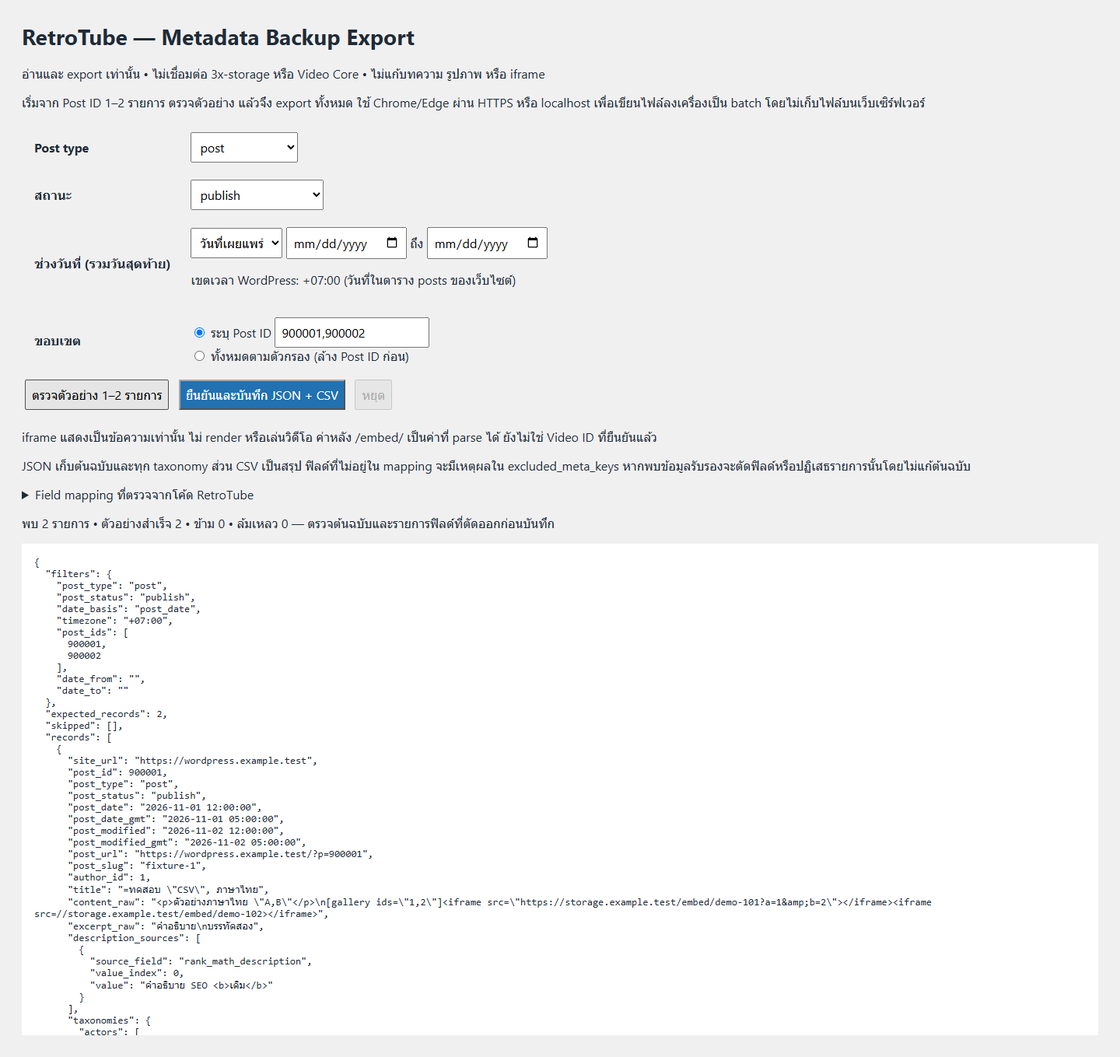
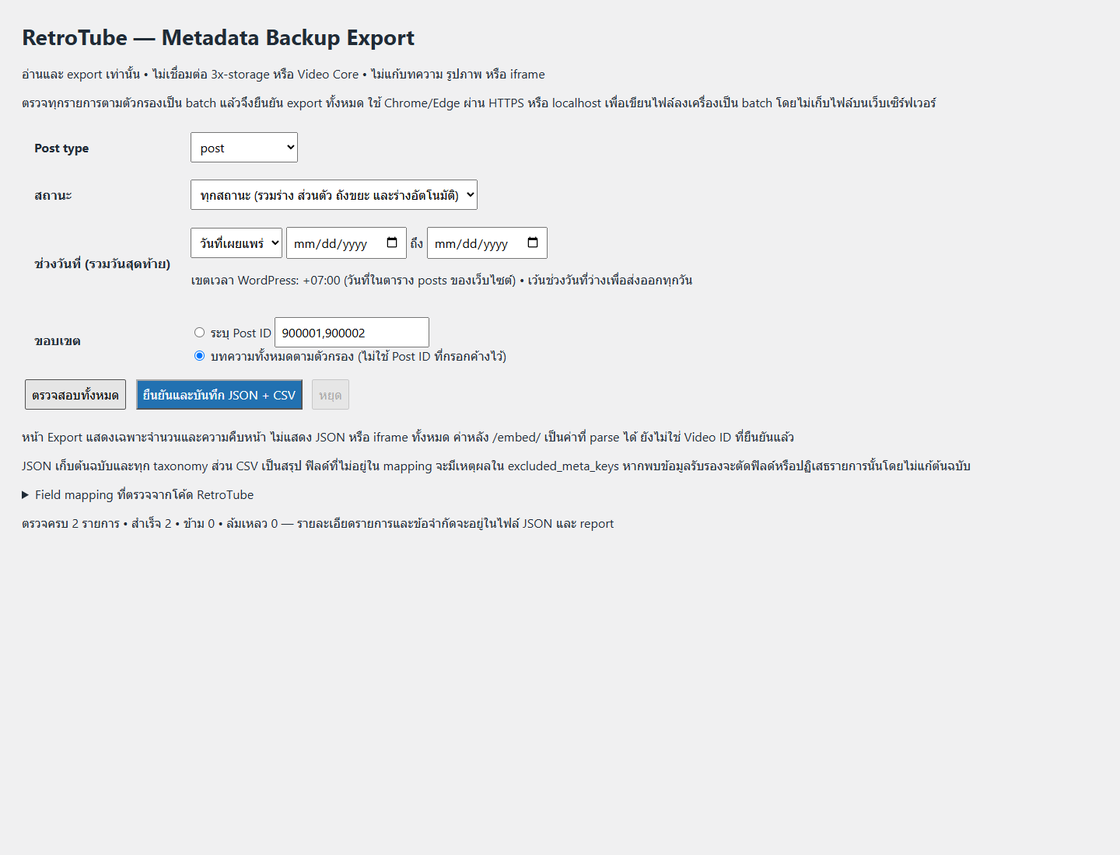
fix: remove full JSON review rendering from WordPress exporter

diff --git a/artifacts/wp-metadata-export/admin-preview.html b/artifacts/wp-metadata-export/admin-preview.html
@@ -1,14 +1,14 @@
 <!doctype html><html lang="th"><meta charset="utf-8"><title>RetroTube Metadata Export — local fixture</title><style>body{font:16px system-ui;margin:28px;color:#202b36;background:#f0f0f1}.form-table th{text-align:left;padding:14px}.form-table td{padding:10px}input,select,button{font:inherit;padding:7px}button{margin:8px 4px}pre{font-size:13px}h1{font-size:28px}.button-primary{background:#2271b1;color:white}</style>        <div class="wrap"><h1>RetroTube — Metadata Backup Export</h1>
         <p>อ่านและ export เท่านั้น • ไม่เชื่อมต่อ 3x-storage หรือ Video Core • ไม่แก้บทความ รูปภาพ หรือ iframe</p>
-        <p>เริ่มจาก Post ID 1–2 รายการ ตรวจตัวอย่าง แล้วจึง export ทั้งหมด ใช้ Chrome/Edge ผ่าน HTTPS หรือ localhost เพื่อเขียนไฟล์ลงเครื่องเป็น batch โดยไม่เก็บไฟล์บนเว็บเซิร์ฟเวอร์</p>
+        <p>ตรวจทุกรายการตามตัวกรองเป็น batch แล้วจึงยืนยัน export ทั้งหมด ใช้ Chrome/Edge ผ่าน HTTPS หรือ localhost เพื่อเขียนไฟล์ลงเครื่องเป็น batch โดยไม่เก็บไฟล์บนเว็บเซิร์ฟเวอร์</p>
         <form id="wpmb-form"><table class="form-table"><tbody>
         <tr><th>Post type</th><td><select name="post_type"><option  selected='selected' value="post">post</option><option  value="page">page</option><option  value="wp_block">wp_block</option><option  value="wp_navigation">wp_navigation</option><option  value="blog">blog</option><option  value="photos">photos</option></select></td></tr>
-        <tr><th>สถานะ</th><td><select name="post_status"><option  selected='selected' value="publish">publish</option><option  value="future">future</option><option  value="draft">draft</option><option  value="pending">pending</option><option  value="private">private</option><option  value="trash">trash</option><option  value="auto-draft">auto-draft</option><option  value="inherit">inherit</option><option  value="request-pending">request-pending</option><option  value="request-confirmed">request-confirmed</option><option  value="request-failed">request-failed</option><option  value="request-completed">request-completed</option></select></td></tr>
-        <tr><th>ช่วงวันที่ (รวมวันสุดท้าย)</th><td><select name="date_basis"><option value="post_date">วันที่เผยแพร่</option><option value="post_modified">วันที่แก้ไข</option></select> <input name="date_from" type="date"> ถึง <input name="date_to" type="date"><p>เขตเวลา WordPress: +07:00 (วันที่ในตาราง posts ของเว็บไซต์)</p></td></tr>
-        <tr><th>ขอบเขต</th><td><label><input type="radio" name="scope" value="ids" checked> ระบุ Post ID</label> <input name="post_ids" placeholder="101, 102" aria-label="Post IDs"><br><label><input type="radio" name="scope" value="all"> ทั้งหมดตามตัวกรอง (ล้าง Post ID ก่อน)</label></td></tr>
-        </tbody></table><button type="button" id="wpmb-preview" class="button">ตรวจตัวอย่าง 1–2 รายการ</button> <button type="button" id="wpmb-download" class="button button-primary" disabled>ยืนยันและบันทึก JSON + CSV</button> <button type="button" id="wpmb-cancel" class="button" disabled>หยุด</button></form>
-        <p>iframe แสดงเป็นข้อความเท่านั้น ไม่ render หรือเล่นวิดีโอ ค่าหลัง /embed/ เป็นค่าที่ parse ได้ ยังไม่ใช่ Video ID ที่ยืนยันแล้ว</p>
+        <tr><th>สถานะ</th><td><select name="post_status"><option value="all">ทุกสถานะ (รวมร่าง ส่วนตัว ถังขยะ และร่างอัตโนมัติ)</option><option value="publish">publish</option><option value="future">future</option><option value="draft">draft</option><option value="pending">pending</option><option value="private">private</option><option value="trash">trash</option><option value="auto-draft">auto-draft</option><option value="inherit">inherit</option><option value="request-pending">request-pending</option><option value="request-confirmed">request-confirmed</option><option value="request-failed">request-failed</option><option value="request-completed">request-completed</option></select></td></tr>
+        <tr><th>ช่วงวันที่ (รวมวันสุดท้าย)</th><td><select name="date_basis"><option value="post_date">วันที่เผยแพร่</option><option value="post_modified">วันที่แก้ไข</option></select> <input name="date_from" type="date"> ถึง <input name="date_to" type="date"><p>เขตเวลา WordPress: +07:00 (วันที่ในตาราง posts ของเว็บไซต์) • เว้นช่วงวันที่ว่างเพื่อส่งออกทุกวัน</p></td></tr>
+        <tr><th>ขอบเขต</th><td><label><input type="radio" name="scope" value="ids"> ระบุ Post ID</label> <input name="post_ids" placeholder="101, 102" aria-label="Post IDs"><br><label><input type="radio" name="scope" value="all" checked> บทความทั้งหมดตามตัวกรอง (ไม่ใช้ Post ID ที่กรอกค้างไว้)</label></td></tr>
+        </tbody></table><button type="button" id="wpmb-preview" class="button">ตรวจสอบทั้งหมด</button> <button type="button" id="wpmb-download" class="button button-primary" disabled>ยืนยันและบันทึก JSON + CSV</button> <button type="button" id="wpmb-cancel" class="button" disabled>หยุด</button></form>
+        <p>หน้า Export แสดงเฉพาะจำนวนและความคืบหน้า ไม่แสดง JSON หรือ iframe ทั้งหมด ค่าหลัง /embed/ เป็นค่าที่ parse ได้ ยังไม่ใช่ Video ID ที่ยืนยันแล้ว</p>
         <p>JSON เก็บต้นฉบับและทุก taxonomy ส่วน CSV เป็นสรุป ฟิลด์ที่ไม่อยู่ใน mapping จะมีเหตุผลใน excluded_meta_keys หากพบข้อมูลรับรองจะตัดฟิลด์หรือปฏิเสธรายการนั้นโดยไม่แก้ต้นฉบับ</p>
         <details><summary>Field mapping ที่ตรวจจากโค้ด RetroTube</summary><pre>{&quot;embed&quot;:[&quot;embed&quot;,&quot;shortcode&quot;],&quot;video&quot;:[&quot;video_url&quot;,&quot;video_url_4k&quot;,&quot;video_url_1080&quot;,&quot;video_url_720&quot;,&quot;video_url_480&quot;,&quot;video_url_360&quot;,&quot;video_url_240&quot;,&quot;trailer_url&quot;],&quot;thumbnail&quot;:[&quot;thumb&quot;,&quot;thumbs&quot;],&quot;description&quot;:[&quot;rank_math_description&quot;],&quot;related&quot;:[&quot;duration&quot;,&quot;featured_video&quot;,&quot;hd_video&quot;,&quot;post_views_count&quot;,&quot;likes_count&quot;,&quot;dislikes_count&quot;]}</pre></details>
-        <p id="wpmb-status" role="status" aria-live="polite">ยังไม่ได้ตรวจตัวอย่าง</p><pre id="wpmb-preview-data" style="white-space:pre-wrap;overflow-wrap:anywhere;background:#fff;padding:16px;max-height:600px;overflow:auto"></pre></div>
+        <p id="wpmb-status" role="status" aria-live="polite">ยังไม่ได้ตรวจสอบ</p></div>
         </html>

diff --git a/tools/wp-metadata-export/assets/admin.js b/tools/wp-metadata-export/assets/admin.js
@@ -7,7 +7,6 @@
   const download = document.getElementById('wpmb-download');
   const cancel = document.getElementById('wpmb-cancel');
   const status = document.getElementById('wpmb-status');
-  const output = document.getElementById('wpmb-preview-data');
   let reviewed = null, stopped = false, running = false;
   const fields = () => Object.fromEntries(new FormData(form));
   const fingerprint = () => JSON.stringify(fields());
@@ -39,12 +38,9 @@
     const current = fingerprint(); frozen = fields(); stopped = false; reviewed = null; busy(true);
     try {
       const data = await startRequest('preview');
-      output.textContent = JSON.stringify({ filters: data.header.filters, expected_records: data.expected_records, skipped: data.skipped }, null, 2) + '\n';
       let batch = data.preview, count = 0, failed = 0;
       while (true) {
         if (stopped) throw new Error('ผู้ใช้หยุดการตรวจ — ยังตรวจไม่ครบ');
-        // Append one text node per batch; never render source HTML or rebuild prior batches.
-        output.append(document.createTextNode(JSON.stringify({ records: batch.records, failed: batch.failed }, null, 2) + '\n'));
         count += batch.records.length; failed += batch.failed.length;
         status.textContent = `ตรวจแล้ว ${count + failed}/${data.expected_records} • สำเร็จ ${count} • ล้มเหลว ${failed}`;
         if (batch.done) break;
@@ -52,7 +48,7 @@
       }
       if (count + failed !== data.expected_records) throw new Error('จำนวนรายการเปลี่ยนระหว่างตรวจ กรุณาตรวจใหม่');
       reviewed = current;
-      status.textContent = `ตรวจครบ ${data.expected_records} รายการ • สำเร็จ ${count} • ข้าม ${data.skipped.length} • ล้มเหลว ${failed} — ตรวจต้นฉบับและรายการฟิลด์ที่ตัดออกก่อนบันทึก`;
+      status.textContent = `ตรวจครบ ${data.expected_records} รายการ • สำเร็จ ${count} • ข้าม ${data.skipped.length} • ล้มเหลว ${failed} — รายละเอียดรายการและข้อจำกัดจะอยู่ในไฟล์ JSON และ report`;
     } catch (e) { reviewed = null; status.textContent = `ตรวจไม่สำเร็จ: ${e.message}`; }
     finally { busy(false); }
   });

diff --git a/tools/wp-metadata-export/includes/admin.php b/tools/wp-metadata-export/includes/admin.php
@@ -120,10 +120,10 @@ final class WPMB_Admin {
         <tr><th>ช่วงวันที่ (รวมวันสุดท้าย)</th><td><select name="date_basis"><option value="post_date">วันที่เผยแพร่</option><option value="post_modified">วันที่แก้ไข</option></select> <input name="date_from" type="date"> ถึง <input name="date_to" type="date"><p>เขตเวลา WordPress: <?php echo esc_html(wp_timezone_string()); ?> (วันที่ในตาราง posts ของเว็บไซต์) • เว้นช่วงวันที่ว่างเพื่อส่งออกทุกวัน</p></td></tr>
         <tr><th>ขอบเขต</th><td><label><input type="radio" name="scope" value="ids"> ระบุ Post ID</label> <input name="post_ids" placeholder="101, 102" aria-label="Post IDs"><br><label><input type="radio" name="scope" value="all" checked> บทความทั้งหมดตามตัวกรอง (ไม่ใช้ Post ID ที่กรอกค้างไว้)</label></td></tr>
         </tbody></table><button type="button" id="wpmb-preview" class="button">ตรวจสอบทั้งหมด</button> <button type="button" id="wpmb-download" class="button button-primary" disabled>ยืนยันและบันทึก JSON + CSV</button> <button type="button" id="wpmb-cancel" class="button" disabled>หยุด</button></form>
-        <p>iframe แสดงเป็นข้อความเท่านั้น ไม่ render หรือเล่นวิดีโอ ค่าหลัง /embed/ เป็นค่าที่ parse ได้ ยังไม่ใช่ Video ID ที่ยืนยันแล้ว</p>
+        <p>หน้า Export แสดงเฉพาะจำนวนและความคืบหน้า ไม่แสดง JSON หรือ iframe ทั้งหมด ค่าหลัง /embed/ เป็นค่าที่ parse ได้ ยังไม่ใช่ Video ID ที่ยืนยันแล้ว</p>
         <p>JSON เก็บต้นฉบับและทุก taxonomy ส่วน CSV เป็นสรุป ฟิลด์ที่ไม่อยู่ใน mapping จะมีเหตุผลใน excluded_meta_keys หากพบข้อมูลรับรองจะตัดฟิลด์หรือปฏิเสธรายการนั้นโดยไม่แก้ต้นฉบับ</p>
         <details><summary>Field mapping ที่ตรวจจากโค้ด RetroTube</summary><pre><?php echo esc_html(WPMB_Export::json(WPMB_Export::mapping())); ?></pre></details>
-        <p id="wpmb-status" role="status" aria-live="polite">ยังไม่ได้ตรวจสอบ</p><pre id="wpmb-preview-data" style="white-space:pre-wrap;overflow-wrap:anywhere;background:#fff;padding:16px;max-height:600px;overflow:auto"></pre></div>
+        <p id="wpmb-status" role="status" aria-live="polite">ยังไม่ได้ตรวจสอบ</p></div>
         <?php
     }
 }

diff --git a/tools/wp-metadata-export/tests/package.py b/tools/wp-metadata-export/tests/package.py
@@ -9,7 +9,7 @@ root = plugin.parents[1]
 out = root / 'artifacts' / 'wp-metadata-export'
 out.mkdir(parents=True, exist_ok=True)
 files = ['wp-metadata-export.php', 'includes/core.php', 'includes/admin.php', 'includes/import.php', 'assets/admin.js', 'assets/import.js', 'README.md']
-archive = out / 'wp-metadata-export-1.1.1.zip'
+archive = out / 'wp-metadata-export-1.1.2.zip'
 with zipfile.ZipFile(archive, 'w', zipfile.ZIP_DEFLATED) as z:
     for name in files:
         z.write(plugin / name, 'wp-metadata-export/' + name)
@@ -19,13 +19,13 @@ with zipfile.ZipFile(archive) as z:
     for name in files:
         assert z.read('wp-metadata-export/' + name) == (plugin / name).read_bytes()
     assert all('..' not in Path(n).parts and not n.startswith('/') for n in z.namelist())
-manifest = {'file': archive.name, 'version': '1.1.1', 'size_bytes': archive.stat().st_size,
+manifest = {'file': archive.name, 'version': '1.1.2', 'size_bytes': archive.stat().st_size,
             'sha256': hashlib.sha256(archive.read_bytes()).hexdigest(),
             'entries': [{'path': 'wp-metadata-export/' + n,
                          'sha256': hashlib.sha256((plugin / n).read_bytes()).hexdigest()} for n in files],
             'checks': 'single plugin root; exact runtime allowlist; CRC and source-byte equality; no tests, fixtures, credentials or private exports'}
 (out / 'package-manifest.json').write_text(json.dumps(manifest, indent=2), encoding='utf-8')
-with zipfile.ZipFile(out / 'wp-metadata-export-1.1.1-source.zip', 'w', zipfile.ZIP_DEFLATED) as z:
+with zipfile.ZipFile(out / 'wp-metadata-export-1.1.2-source.zip', 'w', zipfile.ZIP_DEFLATED) as z:
     for p in plugin.rglob('*'):
         if p.is_file() and '__pycache__' not in p.parts:
             z.write(p, 'wp-metadata-export/' + p.relative_to(plugin).as_posix())

diff --git a/tools/wp-metadata-export/wp-metadata-export.php b/tools/wp-metadata-export/wp-metadata-export.php
@@ -2,7 +2,7 @@
 /**
  * Plugin Name: WordPress Metadata Backup Export
  * Description: Metadata backup and administrator-reviewed RetroTube embed import from 3x-storage CSV.
- * Version: 1.1.1
+ * Version: 1.1.2
  * Requires at least: 6.2
  * Requires PHP: 8.0
  */

diff --git a/tools/wp-metadata-export/includes/core.php b/tools/wp-metadata-export/includes/core.php
@@ -2,7 +2,7 @@
 if (!defined('ABSPATH')) { exit; }
 
 final class WPMB_Export {
-    const VERSION = '1.1.1';
+    const VERSION = '1.1.2';
     const BATCH = 50;
 
     // Evidence and provenance are documented in docs/WORDPRESS_METADATA_EXPORT.md.

diff --git a/tools/wp-metadata-export/README.md b/tools/wp-metadata-export/README.md
@@ -1,19 +1,19 @@
-# RetroTube Metadata Backup Export 1.1.1
+# RetroTube Metadata Backup Export 1.1.2
 
 ปลั๊กอินชั่วคราวสำหรับสำรองและตรวจสอบ metadata ของ RetroTube ที่ใช้ Video embed code โดยตรง ใช้งานได้โดยไม่ต้องมี 7M/AURUM Video Core และไม่เชื่อมต่อ API หรือฐานข้อมูลของ 3x-storage
 
 ## วิธีใช้
 
-1. ติดตั้ง `wp-metadata-export-1.1.1.zip` ผ่าน Plugins → Add New → Upload Plugin แล้วเปิดใช้งาน
+1. ติดตั้ง `wp-metadata-export-1.1.2.zip` ผ่าน Plugins → Add New → Upload Plugin แล้วเปิดใช้งาน
 2. ใช้บัญชีผู้ดูแลที่มี `manage_options` เปิด Tools → Metadata Backup Export
 3. เลือก `post` สำหรับบทความวิดีโอ RetroTube เลือกสถานะ เลือกวันที่เผยแพร่หรือวันที่แก้ไข ช่วงวันที่อิง timezone ของ WordPress ที่แสดงบนหน้าจอ และรวมวันสุดท้าย
-4. เลือก **บทความทั้งหมดตามตัวกรอง** แล้วกด **ตรวจสอบทั้งหมด** ระบบอ่านครั้งละ 50 รายการต่อเนื่องจนจบ ตรวจ content, embed, taxonomy, warnings และ excluded_meta_keys
+4. เลือก **บทความทั้งหมดตามตัวกรอง** แล้วกด **ตรวจสอบทั้งหมด** ระบบอ่านครั้งละ 50 รายการต่อเนื่องจนจบ ตรวจยอดสำเร็จ/ล้มเหลว จากนั้นตรวจ content, embed, taxonomy, warnings และ excluded_meta_keys ในไฟล์ที่บันทึก
 5. กด **ยืนยันและบันทึก JSON + CSV** แล้วเลือกโฟลเดอร์ส่วนตัวบนเครื่องด้วย Chrome/Edge ผ่าน HTTPS หรือ localhost ปลั๊กอินจะสร้าง JSON, CSV และ `-report.json` ชื่อใหม่ ไม่ทับไฟล์เดิม
 6. ตรวจยอดสำเร็จ/ข้าม/ล้มเหลว และ `summary.count_matches` ต้องเป็น true ตรวจเหตุผลใน report และ warnings ทุกครั้ง รายการที่ล้มเหลวจะไม่รวมใน records
 7. หากต้องการทั้งหมด เลือก **บทความทั้งหมดตามตัวกรอง** และ **ทุกสถานะ** เว้นช่วงวันที่ว่าง ไม่ต้องล้าง Post ID ที่กรอกค้างไว้ ระบบจะไม่ใช้ ID ในโหมดทั้งหมด ตรวจสอบทั้งหมดและยืนยันอีกครั้ง การเปลี่ยนตัวกรองจะทำให้ต้องตรวจใหม่
 8. เมื่อสำรองครบ ปิดใช้งานและลบปลั๊กอินได้ ไม่มีตาราง options cron หรือไฟล์ export ฝั่งเซิร์ฟเวอร์ที่ต้องล้าง
 
-ไม่แสดงหรือเล่น iframe; ตัวอย่างเป็นข้อความที่ escape แล้ว ไม่ดาวน์โหลดไฟล์รูปหรือวิดีโอ หน้า Export ไม่เขียนข้อมูลต้นทาง ส่วนหน้า Import ที่เพิ่มในรุ่น 1.1.1 แก้เฉพาะ embed หลังผู้ดูแลยืนยัน ไม่แก้ข้อมูลใน 3x-storage
+ไม่แสดงหรือเล่น iframe; ตัวอย่างเป็นข้อความที่ escape แล้ว ไม่ดาวน์โหลดไฟล์รูปหรือวิดีโอ หน้า Export ไม่เขียนข้อมูลต้นทาง ส่วนหน้า Import ที่เพิ่มในรุ่น 1.1.2 แก้เฉพาะ embed หลังผู้ดูแลยืนยัน ไม่แก้ข้อมูลใน 3x-storage
 
 ## ความหมายของไฟล์
 
@@ -38,7 +38,7 @@
 รายละเอียดหลักฐาน mapping และผลทดสอบอยู่ที่ `docs/WORDPRESS_METADATA_EXPORT.md` ใน source project
 
 
-## นำเข้า embed จาก CSV ของ 3x-storage (1.1.1)
+## นำเข้า embed จาก CSV ของ 3x-storage (1.1.2)
 
 1. Export CSV จากคลังวิดีโอ 3x-storage แล้วเปิด Tools → 3x-storage Embed Import
 2. เลือก post type และไฟล์ CSV UTF-8 ที่มีคอลัมน์ `title,หมวดหมู่,videos url,url images` ตามแอปจริง ขนาดไม่เกิน 10 MiB / 2,000 รายการ (ยังขึ้นกับ upload_max_filesize/post_max_size ของ PHP)
@@ -52,4 +52,6 @@
 
 ขอบเขต “ทั้งหมด” ของ Export คือทุกบทความของ post type และตัวกรองที่เลือก เลือกทุกสถานะและเว้นวันที่ว่างเพื่อรวมร่าง/ส่วนตัว/ถังขยะด้วย ไม่มีเพดานจำนวนโพสต์ของ Export แต่รายการที่มีข้อมูลรับรองหรืออ่านไม่ได้ยังถูกแยกใน report ไม่ใช่สำรองทุกตารางหรือทุก secret
 
-รุ่น 1.1.1: ตรวจครบทุก batch ก่อนเปิดปุ่มบันทึก แสดงข้อมูลทุก record เป็นข้อความ หากหยุด/เครือข่ายผิดพลาด/ยอดไม่ตรง ต้องตรวจใหม่ หน้าจอเก็บข้อความของรายการทั้งหมดจึงใช้หน่วยความจำ browser ตามขนาดข้อมูล; PHP ยังอ่านทีละ 50 รายการ การดาวน์โหลดอ่านข้อมูลอีกครั้ง ไม่ใช่ snapshot เดียวกับการตรวจ จึงควรงดแก้ต้นทางระหว่างทำงาน
+รุ่น 1.1.2: ตรวจครบทุก batch ก่อนเปิดปุ่มบันทึก แสดงข้อมูลทุก record เป็นข้อความ หากหยุด/เครือข่ายผิดพลาด/ยอดไม่ตรง ต้องตรวจใหม่ หน้าจอแสดงเฉพาะยอดสรุป ไม่สะสม JSON ของรายการทั้งหมด; PHP ยังอ่านทีละ 50 รายการ การดาวน์โหลดอ่านข้อมูลอีกครั้ง ไม่ใช่ snapshot เดียวกับการตรวจ จึงควรงดแก้ต้นทางระหว่างทำงาน
+
+รุ่น 1.1.2 นำกล่องแสดง JSON ทั้งหมดออกเพื่อลดการใช้หน่วยความจำและการค้างของ browser โดยยังตรวจครบทุก batch และส่งออกข้อมูลเต็มเหมือนเดิม ไฟล์สำหรับนำเข้า 3x-storage ต้องไม่เกิน 500 รายการ / 10 MiB ต่อไฟล์; CSV สรุปไม่มีคำอธิบายครบเท่า JSON

diff --git a/docs/WORDPRESS_METADATA_EXPORT.md b/docs/WORDPRESS_METADATA_EXPORT.md
@@ -1,3 +1,11 @@
+# Release 1.1.2 — 2026-11-12
+
+Removed the full raw JSON review DOM from the export page. Review still processes every batch but retains only counters on screen; download still streams complete original records to JSON/CSV/report. No schema or source-data changes.
+
+Verified: 7 UI tests including 1,000 review batches with no raw JSON in the page; 50 WordPress/MySQL fixture assertions; Chrome desktop/mobile fixture (real PHP markup and JS, mocked AJAX/file picker) confirms no JSON preview node, no iframe, full downloaded records and review invalidation. ZIP CRC/allowlist/source-byte checks pass. Not installed/tested on production; browser freeze on the user's production browser was not profiled, so DOM removal addresses the identified accumulation without claiming it was the sole cause.
+
+User-provided export audit: JSON 7,746,067 bytes, 701 records, CSV 701 valid-width rows; 701 unique source keys, successful=701, failed=0, count_matches=true. Current app parser caps imports at 500 records / 10 MiB, explaining a definite rejection condition. Local split JSON copies contain 500 and 201 records (5,454,806 and 2,293,298 bytes), preserve every original record exactly, and both pass the current TypeScript parser with zero row errors. Original files untouched; private source/split files are not committed. Production upload not performed.
+
 # Release 1.1.1 — 2026-11-12
 
 Export review now checks every matching record in sequential 50-record batches, showing all raw records as text with running counts. Download unlocks only after completing every batch and reconciling successful + failed with the expected count. Stop or request failure leaves approval disabled. Existing explicit download confirmation and embed-import confirmation remain.
